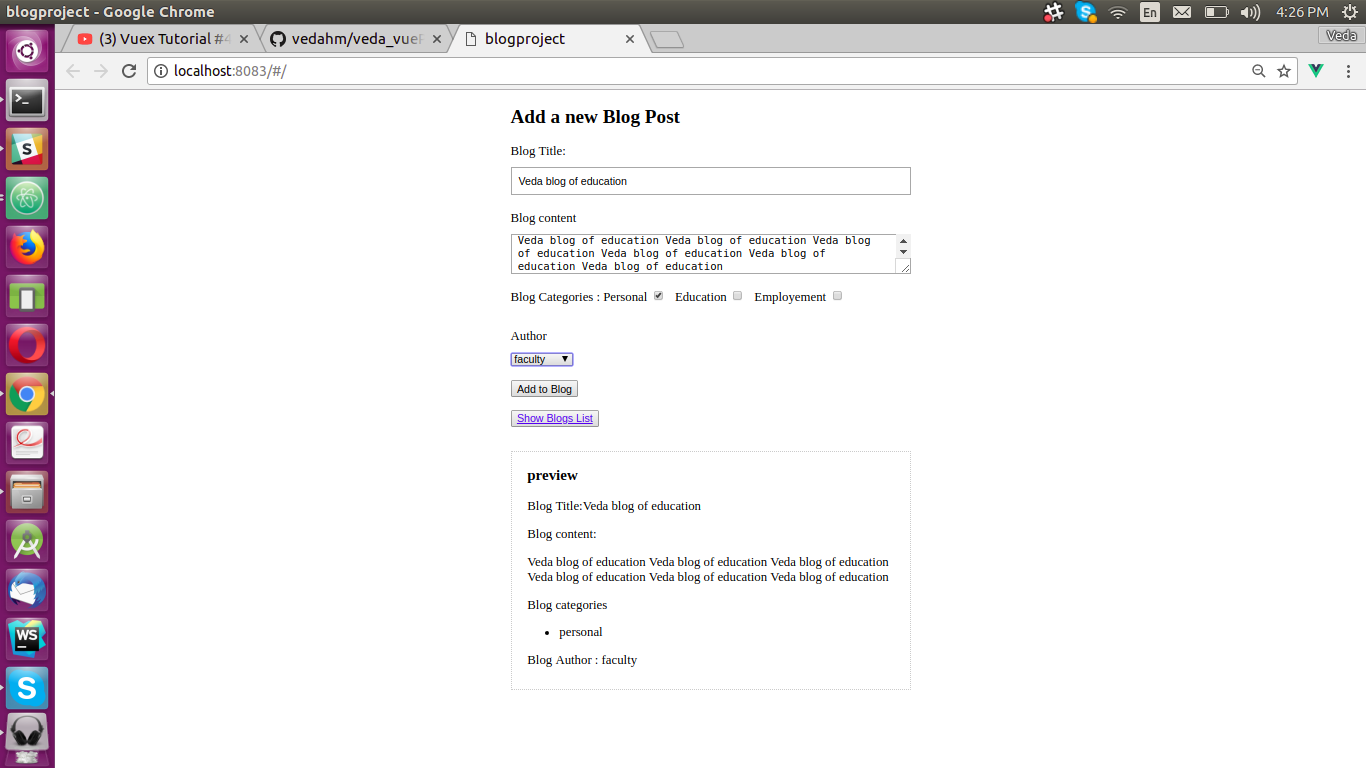
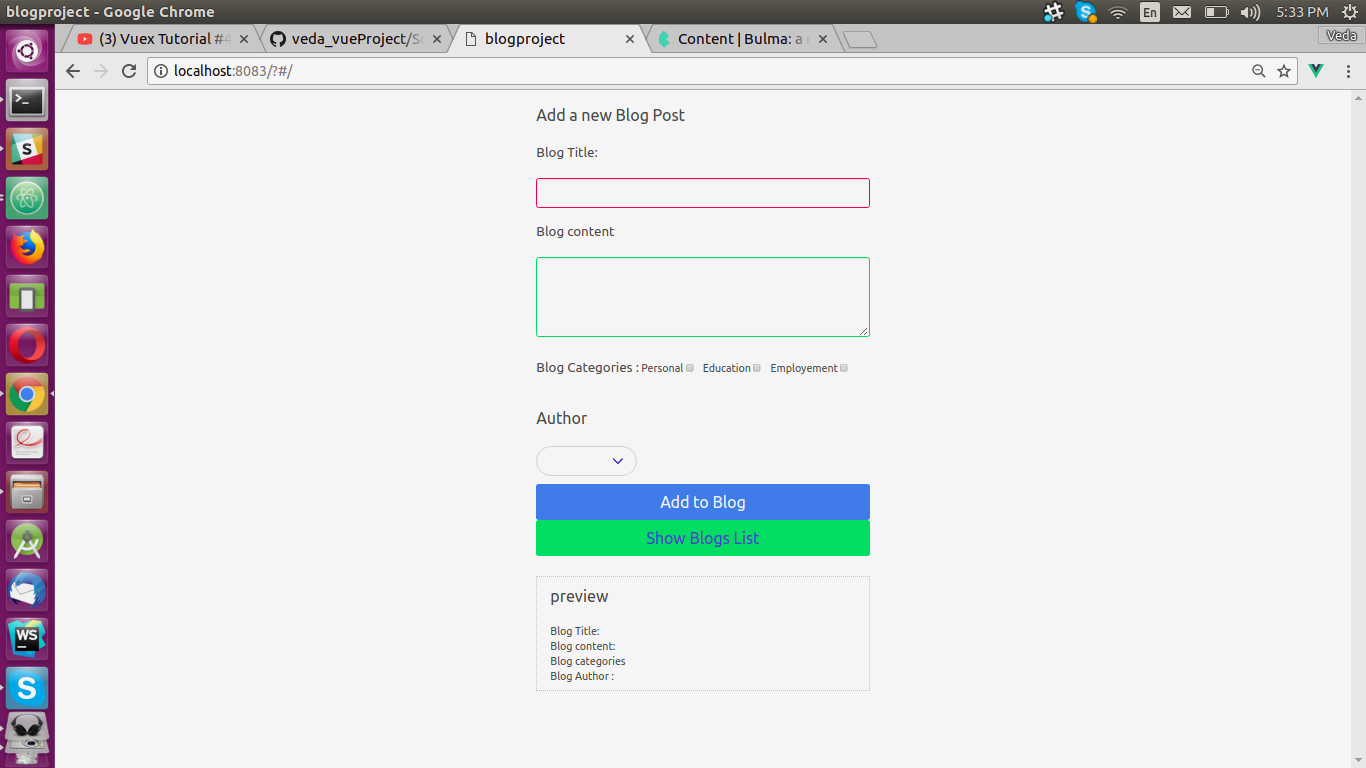
used bulma

diff --git a/src/components/addblog.vue b/src/components/addblog.vue
@@ -1,13 +1,13 @@
 <template>
   <div id='add-blog'>
     <form v-if="!submitted">
-      <h2> Add a new Blog Post</h2>
-      <label> Blog Title: </label>
-      <input type='text' v-model.lazy='blog.title' required/>
-      <label> Blog content </label>
-      <textarea v-model.lazy='blog.content'></textarea>
+      <h1 class="content is-large"> Add a new Blog Post</h1>
+      <label class="content is-medium"> Blog Title: </label>
+      <input class = "field control input is-danger input is-medium" type='text' v-model.lazy='blog.title' required/>
+      <label class="content is-medium"> Blog content </label>
+      <textarea class="field control textarea is-success" v-model.lazy='blog.content'></textarea>
       <div id = 'checkboxes'>
-        <label>Blog Categories : </label>
+        <label class="content is-medium">Blog Categories : </label>
         <label>Personal</label>
         <input type='checkbox' value='personal' v-model='blog.categories' />
         <label>Education</label>
@@ -15,24 +15,26 @@
         <label>Employement</label>
         <input type='checkbox' value='office' v-model='blog.categories'/>
       </div>
-      <label> Author </label>
-      <select v-model='blog.author'>
-        <option v-for='authors in authorlist'>{{authors}}</option>
-      </select>
+      <label class="content is-large"> Author </label>
+      <div class="field control select is-medium select is-rounded">
+             <select v-model='blog.author'>
+               <option v-for='authors in authorlist'>{{authors}}</option>
+             </select>
+      </div>
       <p>
-        <button v-on:click="postdata">Add to Blog </button>
+        <button class="button is-large is-fullwidth button is-info" v-on:click="postdata">Add to Blog </button>
       </p>
     </form>
     <div v-if="submitted">
-      <p> Thanks for adding your own Blog!</p>
+      <p class="content is-large"> Thanks for adding your own Blog!</p>
     </div>
     <div>
-    <button v-on:click=""><router-link to="/show">Show Blogs List</router-link></button>
+    <button class="button is-large is-fullwidth button is-success" v-on:click=""><router-link to="/show">Show Blogs List</router-link></button>
     </div>
 
 
-    <div id ='preview'>
-      <h3>preview</h3>
+    <div  id ='preview'>
+      <h1 class="content is-large">preview</h1>
       <p>Blog Title:{{blog.title}}</p>
       <p>Blog content:</p>
       <p> {{blog.content}} </p>

diff --git a/src/components/showblogs.vue b/src/components/showblogs.vue
@@ -1,7 +1,7 @@
 <template>
   <div id="show-blogs">
-    <h1>List of All the Added Blogs </h1>
-    <button v:onclick=''><router-link to ='/'>Add New Blog</router-link></button>
+    <h1 class="content is-large">List of All the Added Blogs </h1>
+    <button class = "button is-medium  button is-danger" v:onclick=''><router-link to ='/'>Add New Blog</router-link></button>
     <div v-for="blog in blogs" class="single-blog">
       <h1>{{blog.title}}</h1>
       <h2>{{blog.body}}</h2>

diff --git a/src/main.js b/src/main.js
@@ -6,6 +6,7 @@ import Axios from 'axios'
 import Vueaxios from 'vue-axios'
 import router from './router'
 import { store } from './store/store'
+import '../node_modules/bulma/css/bulma.css'
 
 
 Vue.config.productionTip = false
